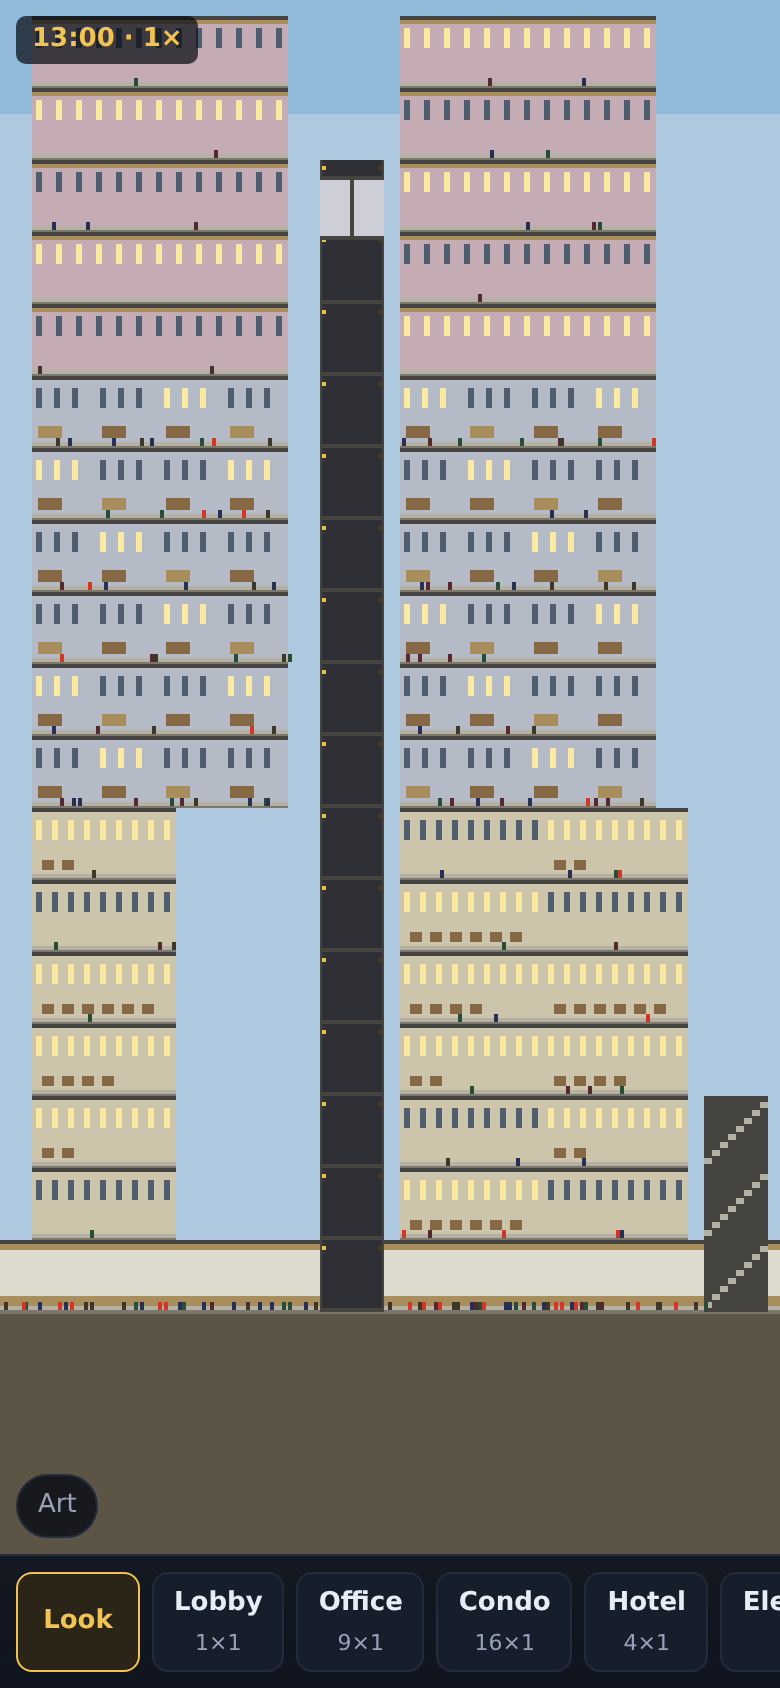
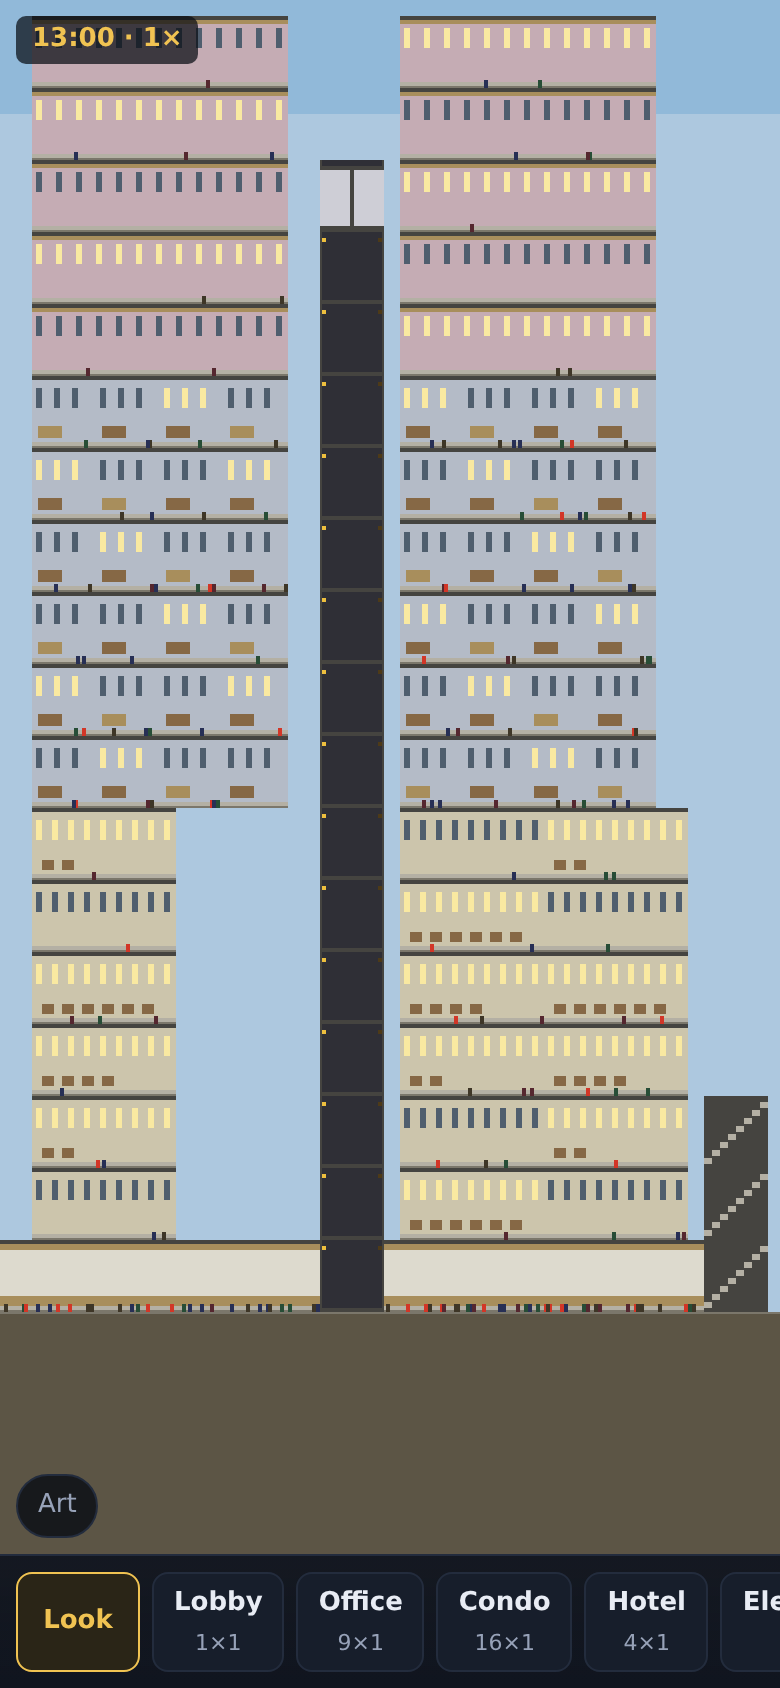
Fix what the real art exposed: lobby smear, transparency, doubled people
Three bugs that only became visible with the original bitmaps loaded.

A lobby resource is 140 cells wide. Blitting it whole at each
one-segment placement smeared it across the entire ground floor and off
to the right. Cell strips are now cut into one frame per cell, and a
tiled facility steps through the sheet by position rather than by state,
so a lobby reads as one continuous frontage instead of a single tile
stamped over and over.

See-through is not palette index 0. Assuming it was drew every person
with a solid rectangle behind them. Sprites that overlay other art now
take their transparent index from their own top-left pixel, which is the
usual convention and beats guessing.

The original's room art already has its occupants painted in — someone
at the desk, someone asleep in the bed — so walking our own figures
through it doubled them up. With the original art, people are drawn on
the concourse only; the placeholder rooms are empty and keep theirs.

Also: people stood in the slab below the room, because they were
anchored to the 36px floor band rather than to the bottom of the
facility's own 24px facade. They now stand on the floor line of
whichever art is loaded, feet down, and pace back and forth instead of
wrapping — wrapping teleported them across the room on every lap.

The shaft moves from 0x8468 to 0x8429. 0x8468 turned out to be walking
figures on screen, so it is stairs or an escalator; 0x8429 is the same
[…]

diff --git a/vertical-empire/src/assets/slice.ts b/vertical-empire/src/assets/slice.ts
@@ -59,8 +59,20 @@ export interface SpriteSpec {
   states?: number;
   /** Cut the decoded sheet into this many equal rows (variants). */
   variants?: number;
-  /** Palette index to treat as see-through when drawn over other art. */
-  transparent?: number;
+  /**
+   * Palette index to treat as see-through when drawn over other art.
+   *
+   * `'corner'` reads it from the sprite's own top-left pixel, which is the
+   * usual convention and beats guessing: assuming index 0 gave the people
+   * solid rectangular backgrounds.
+   */
+  transparent?: number | 'corner';
+  /**
+   * Cut a cell strip into one frame per 8px cell rather than handing back the
+   * whole strip. A lobby resource is 140 cells wide; drawn whole at each
+   * one-segment placement it smears across the entire ground floor.
+   */
+  cellFrames?: boolean;
 }
 
 function range(from: number, to: number): number[] {
@@ -84,7 +96,7 @@ export const CATALOGUE: readonly SpriteSpec[] = [
 
   // Lobby, in three variants: ground, sky lobby, and the high one. Cells are 32
   // tall rather than a full floor — see `ROOM_HEIGHT`.
-  { key: 'lobby', type: TYPE_CELLS, ids: range(0x89e8, 0x89ea), mode: 'cells', cellHeight: 32 },
+  { key: 'lobby', type: TYPE_CELLS, ids: range(0x89e8, 0x89ea), mode: 'cells', cellHeight: 32, cellFrames: true },
 
   // 288x24 = four states of nine segments. Occupancy runs across: empty, then
   // progressively tenanted.
@@ -105,11 +117,14 @@ export const CATALOGUE: readonly SpriteSpec[] = [
   // The lift car: 160x36 cut five ways gives 32x36, the documented car size,
   // and five frames is the door opening. 0x8428 is the same car as a single
   // bitmap; 0x842d is the 48x36 express one.
-  { key: 'car', type: TYPE_BITMAP, ids: [0x842a], mode: 'dib', states: 5, transparent: 0 },
+  { key: 'car', type: TYPE_BITMAP, ids: [0x842a], mode: 'dib', states: 5, transparent: 'corner' },
 
-  // UNVERIFIED: 640x36 divides into twenty four-segment pieces, which is the
-  // right shape for shaft segments, but the size alone does not prove it.
-  { key: 'elevator', type: TYPE_BITMAP, ids: [0x8468], mode: 'dib', states: 20 },
+  // UNVERIFIED. 0x8468 was the first guess at the shaft — 640x36 divides into
+  // twenty four-segment pieces — but on screen it turned out to be walking
+  // figures, so it is stairs or an escalator, not an empty shaft. 0x8429 is
+  // the same four-segment width in six states and sits in the elevator block
+  // with the two cars, which makes it the better candidate.
+  { key: 'elevator', type: TYPE_BITMAP, ids: [0x8429], mode: 'dib', states: 6 },
 
   // Both of these were in the catalogue at the right IDs but as cell strips.
   // They are ordinary bitmaps, which is why they came back "not found".
@@ -122,7 +137,7 @@ export const CATALOGUE: readonly SpriteSpec[] = [
   // for the four-pixel people the game draws, and the same ID exists under
   // resource type 0xFF06 as well. Twelve eight-wide frames is a guess; check
   // raw-0x8002-0x82bc.png before trusting it.
-  { key: 'people', type: TYPE_BITMAP, ids: range(0x82bc, 0x82bf), mode: 'dib', states: 12, transparent: 0 },
+  { key: 'people', type: TYPE_BITMAP, ids: range(0x82bc, 0x82bf), mode: 'dib', states: 12, transparent: 'corner' },
 ];
 
 export interface ExtractedSprite {
@@ -146,6 +161,16 @@ function decodeSheet(spec: SpriteSpec, data: Uint8Array): IndexedImage {
 
 /** Cuts a decoded sheet into its states and variants. */
 function cutFrames(spec: SpriteSpec, sheet: IndexedImage): IndexedImage[] {
+  // A strip is a run of single-segment cells, each its own frame.
+  if (spec.cellFrames) {
+    const cells = Math.floor(sheet.width / SEGMENT_WIDTH);
+    const frames: IndexedImage[] = [];
+    for (let cell = 0; cell < cells; cell += 1) {
+      frames.push(crop(sheet, cell * SEGMENT_WIDTH, 0, SEGMENT_WIDTH, sheet.height));
+    }
+    return frames.length > 0 ? frames : [sheet];
+  }
+
   const states = Math.max(1, spec.states ?? 1);
   const variants = Math.max(1, spec.variants ?? 1);
   if (states === 1 && variants === 1) return [sheet];
@@ -208,11 +233,19 @@ export function extract(resources: ResourceTable): Extraction {
     }
 
     const sprite: ExtractedSprite = { key: spec.key, frames };
-    if (spec.transparent !== undefined) sprite.transparent = spec.transparent;
+    const transparent = resolveTransparent(spec, frames);
+    if (transparent !== undefined) sprite.transparent = transparent;
     sprites.set(spec.key, sprite);
   }
 
   return { palette, sprites, problems };
+}
+
+/** Turns `'corner'` into the actual index the sprite uses for see-through. */
+function resolveTransparent(spec: SpriteSpec, frames: IndexedImage[]): number | undefined {
+  if (spec.transparent === undefined) return undefined;
+  if (spec.transparent !== 'corner') return spec.transparent;
+  return frames[0]?.pixels[0];
 }
 
 function firstValue<K, V>(map: Map<K, V> | undefined): V | undefined {

diff --git a/vertical-empire/src/render/scene.ts b/vertical-empire/src/render/scene.ts
@@ -95,7 +95,10 @@ function drawPlacements(target: Framebuffer, atlas: Atlas, tower: Tower, camera:
     if (highest < bottomLevel || placement.level > topLevel) continue;
 
     const kind = facility(placement.id);
-    const found = lookup(atlas, kind.sprite, placement.state);
+    // A tiled facility steps through its sheet by position, so a lobby reads as
+    // one continuous frontage rather than one tile stamped over and over.
+    const frame = kind.tiled ? placement.segment : placement.state;
+    const found = lookup(atlas, kind.sprite, frame);
     const x = Math.round(placement.segment * SEGMENT_WIDTH - camera.x);
     if (x > target.width || x + kind.width * SEGMENT_WIDTH < 0) continue;
 
@@ -171,25 +174,51 @@ function drawPeople(
   // Fewer people about at night, which the palette alone cannot tell you.
   const busy = clock.hour > 7 && clock.hour < 21 ? 1 : 0.25;
 
+  /**
+   * The original's room art already has its occupants painted in — a desk with
+   * someone at it, a bed with someone asleep in it — so walking our own figures
+   * through it doubles them up. There, people belong on the concourse only.
+   * Our placeholder rooms are empty, so they keep their walkers.
+   */
+  const roomWalkers = atlas.source === 'fallback';
+
   tower.placements.forEach((placement, index) => {
     const kind = facility(placement.id);
     if (kind.transport) return;
+    if (!kind.tiled && !roomWalkers) return;
     if (placement.level < bottomLevel - 1 || placement.level > topLevel + 1) return;
 
-    const walkers = Math.round(hash(index) * 3 * busy);
-    const floorY = Math.round(levelTop(placement.level) + FLOOR_HEIGHT - camera.y) - 5;
-    if (floorY < 0 || floorY > target.height) return;
+    // Stand them on the floor of the room they are in, which is the bottom of
+    // the facility's own art — 24 pixels down for the original's facades, a
+    // full 36 for ours. Anchoring to the floor band instead put everyone in
+    // the slab below the room.
+    const facade = lookup(atlas, kind.sprite, kind.tiled ? placement.segment : placement.state);
+    const floorLine = Math.min(facade?.image.height ?? FLOOR_HEIGHT, FLOOR_HEIGHT);
+    const baseY = Math.round(levelTop(placement.level) + floorLine - camera.y);
+    if (baseY < 0 || baseY > target.height) return;
 
+    const walkers = Math.round(hash(index) * 3 * busy);
     const runWidth = kind.width * SEGMENT_WIDTH;
+
     for (let i = 0; i < walkers; i += 1) {
       const seed = index * 31 + i;
-      const speed = 0.008 + hash(seed) * 0.012;
-      const along = mod(hash(seed + 3) * runWidth + clock.elapsed * speed, runWidth);
-      const x = Math.round(placement.segment * SEGMENT_WIDTH + along - camera.x);
       // The last frame is the angry tint; a few of them always are.
-      const frame = hash(seed + 11) > 0.85 ? people.frames.length - 1 : Math.floor(hash(seed + 5) * (people.frames.length - 1));
+      const frame = hash(seed + 11) > 0.85
+        ? people.frames.length - 1
+        : Math.floor(hash(seed + 5) * (people.frames.length - 1));
       const image = people.frames[frame];
-      if (image) target.blit(image, x, floorY, people.transparent);
+      if (!image) continue;
+
+      // Pace back and forth rather than wrapping. Wrapping made everyone
+      // teleport from one side of the room to the other on every lap.
+      const span = Math.max(1, runWidth - image.width);
+      const speed = 0.006 + hash(seed) * 0.008;
+      const phase = mod(hash(seed + 3) + clock.elapsed * speed / span, 2);
+      const along = (phase < 1 ? phase : 2 - phase) * span;
+
+      const x = Math.round(placement.segment * SEGMENT_WIDTH + along - camera.x);
+      // Feet on the floor line, however tall this particular sprite is.
+      target.blit(image, x, baseY - image.height, people.transparent);
     }
   });
 }

diff --git a/vertical-empire/tests/assets.test.ts b/vertical-empire/tests/assets.test.ts
@@ -6,6 +6,7 @@ import { CYCLE_GROUPS, decodePalette, mixPalettes, rotateCycles } from '../src/a
 import { FLOOR_HEIGHT, ROOM_HEIGHT, SEGMENT_WIDTH, TYPE_BITMAP, TYPE_PALETTE, extract } from '../src/assets/slice.js';
 import { buildCellStrip, buildDIB, buildNE, buildPaletteResource } from './fixtures.js';
 
+
 describe('NE resources', () => {
   it('reads every resource back out, keyed by raw type and id', () => {
     const spec = new Map([
@@ -240,5 +241,64 @@ describe('the corrected catalogue', () => {
     expect(sprites.get('stairs')?.frames).toHaveLength(7);
     expect(sprites.get('stairs')?.frames[0]?.width).toBe(64);
     expect(problems.some((problem) => problem.key === 'stairs')).toBe(false);
+  });
+});
+
+describe('drawing from a real-shaped file', () => {
+  /** A stand-in with the shapes the real SIMTOWER.EXE reports. */
+  function mimic(): Uint8Array {
+    const bitmaps = new Map<number, Uint8Array>();
+    const put = (id: number, w: number, h: number, ink: (x: number, y: number) => number) =>
+      bitmaps.set(id, buildDIB(w, h, ink));
+
+    for (let id = 0x8351; id <= 0x835b; id += 1) put(id, 32, 360, () => 60);
+    for (let id = 0x85a8; id <= 0x85aa; id += 1) put(id, 288, ROOM_HEIGHT, (x) => Math.floor(x / 72) + 1);
+    // People: a figure on a background, so the corner index is the see-through one.
+    for (let id = 0x82bc; id <= 0x82bf; id += 1) put(id, 96, ROOM_HEIGHT, (x, y) => (y > 8 && x % 8 > 2 ? 200 : 77));
+
+    const cells = new Map<number, Uint8Array>();
+    for (let id = 0x89e8; id <= 0x89ea; id += 1) {
+      // 140 cells, each carrying its own index so a mis-cut shows up.
+      cells.set(id, buildCellStrip(140, SEGMENT_WIDTH, 32, (cell) => (cell % 200) + 1));
+    }
+
+    return buildNE(
+      new Map([
+        [TYPE_BITMAP, bitmaps],
+        [0xff02, cells],
+        [TYPE_PALETTE, new Map([[0x83e8, buildPaletteResource((i) => [i, i, i])]])],
+      ]),
+    );
+  }
+
+  it('cuts a lobby strip into single-segment frames', async () => {
+    const { buildOriginalAtlas } = await import('../src/assets/original.js');
+    const lobby = buildOriginalAtlas(mimic()).atlas.sprites.get('lobby');
+
+    // Three resources of 140 cells each. Drawn whole at a one-segment
+    // placement, a 1120px strip smears across the entire ground floor.
+    expect(lobby?.frames).toHaveLength(3 * 140);
+    expect(lobby?.frames[0]?.width).toBe(SEGMENT_WIDTH);
+    expect(lobby?.frames[0]?.height).toBe(32);
+    // Consecutive frames are consecutive cells, so a lobby reads as a frontage.
+    expect(lobby?.frames[1]?.pixels[0]).toBe(2);
+  });
+
+  it('takes the see-through index from the sprite rather than assuming zero', async () => {
+    const { buildOriginalAtlas } = await import('../src/assets/original.js');
+    const people = buildOriginalAtlas(mimic()).atlas.sprites.get('people');
+    // 77 is the background these were drawn with; assuming 0 gave every person
+    // a solid rectangle behind them.
+    expect(people?.transparent).toBe(77);
+  });
+
+  it('reports no problems for the shapes a real copy actually has', async () => {
+    const { buildOriginalAtlas } = await import('../src/assets/original.js');
+    const { problems, atlas } = buildOriginalAtlas(mimic());
+    // Only the entries this fixture leaves out should be missing.
+    const missing = problems.map((problem) => problem.key).sort();
+    expect(missing).not.toContain('office');
+    expect(missing).not.toContain('lobby');
+    expect(atlas.skyPalettes.length).toBeGreaterThan(1);
   });
 });

diff --git a/vertical-empire/src/world/facilities.ts b/vertical-empire/src/world/facilities.ts
@@ -22,10 +22,16 @@ export interface Facility {
   placement: 'anywhere' | 'lobby-levels';
   /** Transport runs between floors rather than sitting on one. */
   transport: boolean;
+  /**
+   * Drawn one segment at a time from a run of cells, stepping through the sheet
+   * by position rather than by state. The lobby is a continuous frontage, not
+   * the same tile repeated.
+   */
+  tiled?: boolean;
 }
 
 export const FACILITIES: readonly Facility[] = [
-  { id: 'lobby', label: 'Lobby', sprite: 'lobby', width: 1, cost: 5_000, placement: 'lobby-levels', transport: false },
+  { id: 'lobby', label: 'Lobby', sprite: 'lobby', width: 1, cost: 5_000, placement: 'lobby-levels', transport: false, tiled: true },
   { id: 'office', label: 'Office', sprite: 'office', width: 9, cost: 40_000, placement: 'anywhere', transport: false },
   { id: 'condo', label: 'Condo', sprite: 'condo', width: 16, cost: 200_000, placement: 'anywhere', transport: false },
   { id: 'hotel', label: 'Hotel', sprite: 'hotel', width: 4, cost: 20_000, placement: 'anywhere', transport: false },

diff --git a/vertical-empire/README.md b/vertical-empire/README.md
@@ -79,9 +79,21 @@ condo is 128 wide, which is sixteen segments; a hotel suite sheet is 640, which
 is eight states of ten segments; a lift car is 32×36, exactly as documented.
 
 A few entries are still marked **UNVERIFIED** in the catalogue — the shaft, the
-stair and escalator widths, and especially `people`, whose 96×24 shape is not an
-obvious fit for the four-pixel figures the game draws. Check those against the
-ID-named PNGs from `--all`.
+stair and escalator widths, and `people`, whose 96×24 shape is not an obvious
+fit. Check those against the ID-named PNGs from `--all`.
+
+Three further things only showed up once the real art was on screen:
+
+- **A lobby resource is 140 cells wide.** Drawn whole at each one-segment
+  placement it smeared across the entire ground floor, so cell strips are now
+  cut into one frame per cell, and the lobby steps through them by position —
+  a continuous frontage rather than one tile stamped repeatedly.
+- **See-through is not index 0.** Assuming it was gave every person a solid
+  rectangle behind them. Sprites that overlay others now take the index from
+  their own top-left pixel.
+- **The original's rooms come with their occupants painted in.** Walking our own
+  figures through them doubled everyone up, so with the original art people are
+  drawn on the concourse only. The placeholder rooms are empty and keep theirs.
 
 ## What the spike found
 
